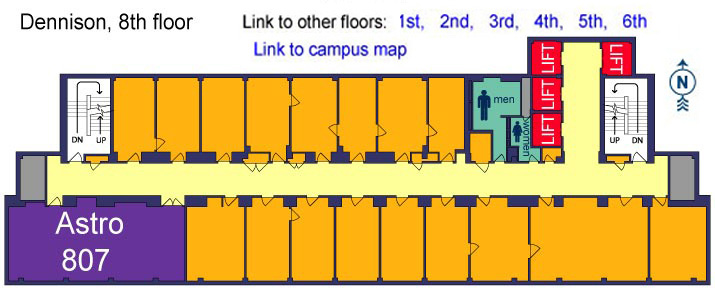
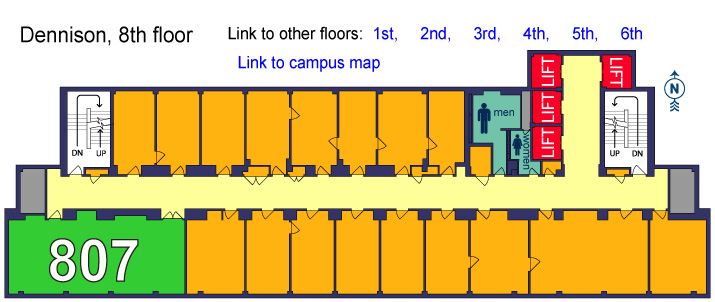
missed a floor map update

diff --git a/public/maps/denn8.html b/public/maps/denn8.html
@@ -7,13 +7,13 @@
 <body>
 <img src="denn8.jpg" alt="Dennison - floor 8" width="715" height="291" border="0" usemap="#denn8" />
 <map name="denn8" id="denn8">
-  <area shape="rect" coords="395,11,427,33" href="denn1.html" target="_self" alt="Link to 1st floor" title="Link to 1st floor" />
-  <area shape="rect" coords="441,13,475,32" href="denn2.html" target="_self" alt="Link to 2nd floor"  title="Link to 2nd floor" />
-  <area shape="rect" coords="488,10,520,32" href="denn3.html" target="_self" alt="Link to 3rd floor" title="Link to 3rd floor" />
-  <area shape="rect" coords="535,10,567,32" href="denn4.html" target="_self" alt="Link to 4th floor" title="Link to 4th floor" />
-  <area shape="rect" coords="578,11,610,33" href="denn5.html" target="_self" alt="Link to 5th floor" title="Link to 5th floor" />
-  <area shape="rect" coords="619,11,651,33" href="denn6.html" target="_self" alt="Link to 6th floor" title="Link to 6th floor" />
-  <area shape="rect" coords="254,40,411,60" href="index.html" target="_self" alt="Link to campus map" title="Link to campus map" />
+  <area shape="rect" coords="370,20,402,42" href="denn1.html" target="_self" alt="Link to 1st floor" title="Link to 1st floor" />
+  <area shape="rect" coords="416,22,450,41" href="denn2.html" target="_self" alt="Link to 2nd floor"  title="Link to 2nd floor" />
+  <area shape="rect" coords="519,20,551,42" href="denn4.html" target="_self" alt="Link to 4th floor" title="Link to 4th floor" />
+  <area shape="rect" coords="568,21,600,43" href="denn5.html" target="_self" alt="Link to 5th floor" title="Link to 5th floor" />
+  <area shape="rect" coords="614,21,646,43" href="denn6.html" target="_self" alt="Link to 6th floor" title="Link to 6th floor" />
+  <area shape="rect" coords="469,20,501,42" href="denn3.html" target="_self" alt="Link to 3rd floor" title="Link to 3rd floor" />
+  <area shape="rect" coords="233,50,390,70" href="index.html" target="_self" alt="Link to campus map" title="Link to campus map" />
   <area shape="rect" coords="8,207,184,284" href="../classrooms/DENN807" target="_self" alt="Link to data room 807" title="Link to data room 807" />
 </map>
 </body>
